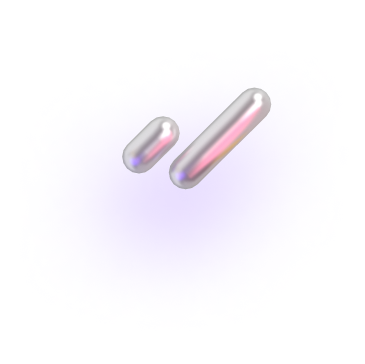
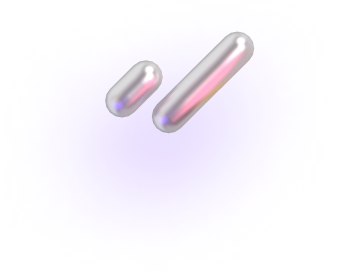
added changes for ExclusiveAccess

Changed region(s): [[0.2899, 0.1143, 0.7536, 0.5429]]

diff --git a/src/components/ExclusiveAccess/ExclusiveAccess.module.css b/src/components/ExclusiveAccess/ExclusiveAccess.module.css
@@ -33,6 +33,30 @@
 	padding-top: 50px;
 }
 
+.imageWrapperPeople::before {
+	width: 345px;
+	height: 280px;
+	right: -150px;
+	top: -35px;
+	background: url('../../../public/img/ExclusiveAccess-1-before.png') no-repeat;
+}
+
+.imageWrapperMan::before {
+	width: 350px;
+	height: 325px;
+	left: -200px;
+	top: -25px;
+	background: url('../../../public/img/ExclusiveAccess-2-before.png') no-repeat;
+}
+
+.imageWrapperSunGirl::before {
+	width: 390px;
+	height: 345px;
+	right: -150px;
+	bottom: -180px;
+	background: url('../../../public/img/ExclusiveAccess-3-before.png') no-repeat;
+}
+
 .imageWrapper img {
 	max-width: 456px;
 	border-radius: 25%;
